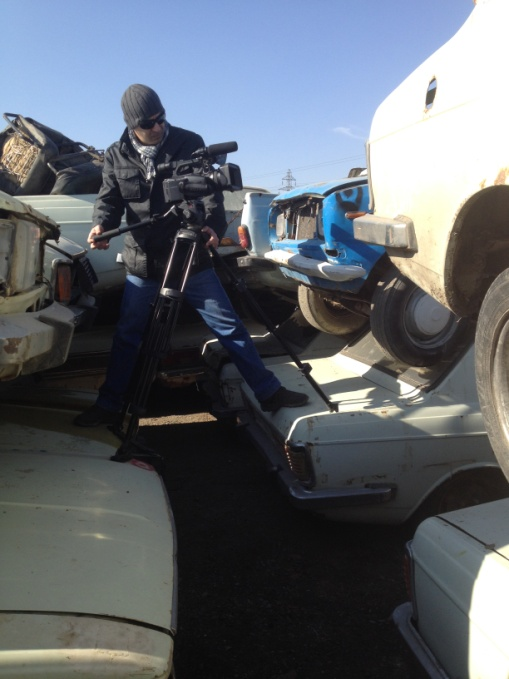
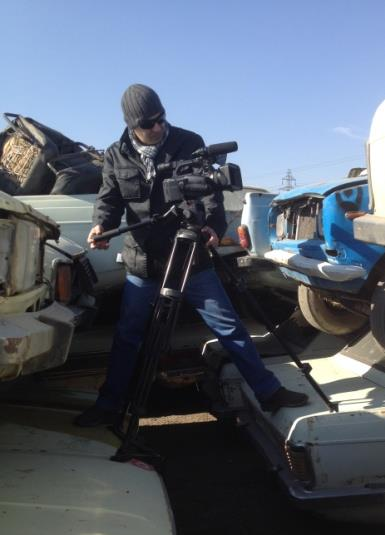
Add directors

diff --git a/src/components/Main.vue b/src/components/Main.vue
@@ -33,7 +33,7 @@ import { AccordionRoot } from 'reka-ui'
       how it has been perceived throughout the years and examines its links with Iran's major historical 
       and sociological landmarks such as the White Revolution, the industrialization, the rise of the middle class, 
       the Islamic Revolution, the Iran-Iraq war, and the post-war era.<br><br>
-      The film also documents the decline of Paykan, and how it is still very much alive in the culture and memory of the country.<br><br>
+      The film also documents the decline of Paykan, and how it is still very much alive in the culture and memory of the country.<br>
     </Accordion>
     <Accordion title="Featured Experts" value="item-2">
       <div>
@@ -56,6 +56,31 @@ import { AccordionRoot } from 'reka-ui'
           cultural works of the 70s in Iran.</p><br>
       </div>
     </Accordion>
+    <Accordion title="Directors" value="item-3">
+      <div>
+        <center><img class="director-pic" src="../assets/director-shahin-armin.png"></center>
+        <p><b>Shahin Armin</b> is an automotive design-engineer and a Paykan fanatic. Born in Tehran and a car enthusiast 
+          before he could even talk or walk, he moved to the US in his twenties and worked in the US car industry for 13 years 
+          (Chrysler, Michigan and Honda America, Ohio).<br><br>
+          Although he worked on modern and sophisticated cars, he could never get the Paykan out
+          of his mind. In 2009 he started the PaykanHunter.com blog, thus initiating an extensive
+          research into Iran's emblematic car. Upon returning to Tehran in 2012, he co-curated two
+          Paykan themed art exhibitions along with prominent Iranian artists.<br><br>
+          Iran's Arrow is a result of Shahin's extensive research into the history of Paykan, interactions
+          with fellow Paykan enthusiasts, and comprehensive understanding of Paykan's impact on
+          Iranian society.</p><br>
+        <center><img class="director-pic" src="../assets/director-sohrab-daryabandari.png"></center>
+        <p><b>Sohrab Daryabandari</b> is a Tehran based professional photographer and filmmaker whose
+          25 year-long career has been stretching between many areas of expertise in analog and
+          digital photography. His work has ranged from journalistic, commercial, and artistic to
+          architectural and industrial photography, which later lead him to editing and documentary
+          filmmaking.<br><br>
+          His photographic work, which was regularly exhibited and published in Iran and Europe, has
+          influenced his filmmaking, notably in Dammam (Iran, 2003) and Sharveh (Iran, 2005), his
+          two documentaries on ethnic Iranian music.</p>
+      </div>
+    </Accordion>
   </AccordionRoot>
+  <span class="footer">Email: <a href="mailto:email@example.com">Shahin@PaykanHunter.com</a> | 2026 ©</span>
 </template>
 

diff --git a/src/style.css b/src/style.css
@@ -73,6 +73,19 @@ p {
   height:150px;
 }
 
+.director-pic {
+  width: auto;
+  height: 250px;
+}
+
+.footer {
+  background-color: #16171d;
+  color: #F2F2F2;
+  height: 40px;
+  position: sticky;
+  padding-top: 10px
+}
+
 #app {
   width: 1126px;
   max-width: 100%;
